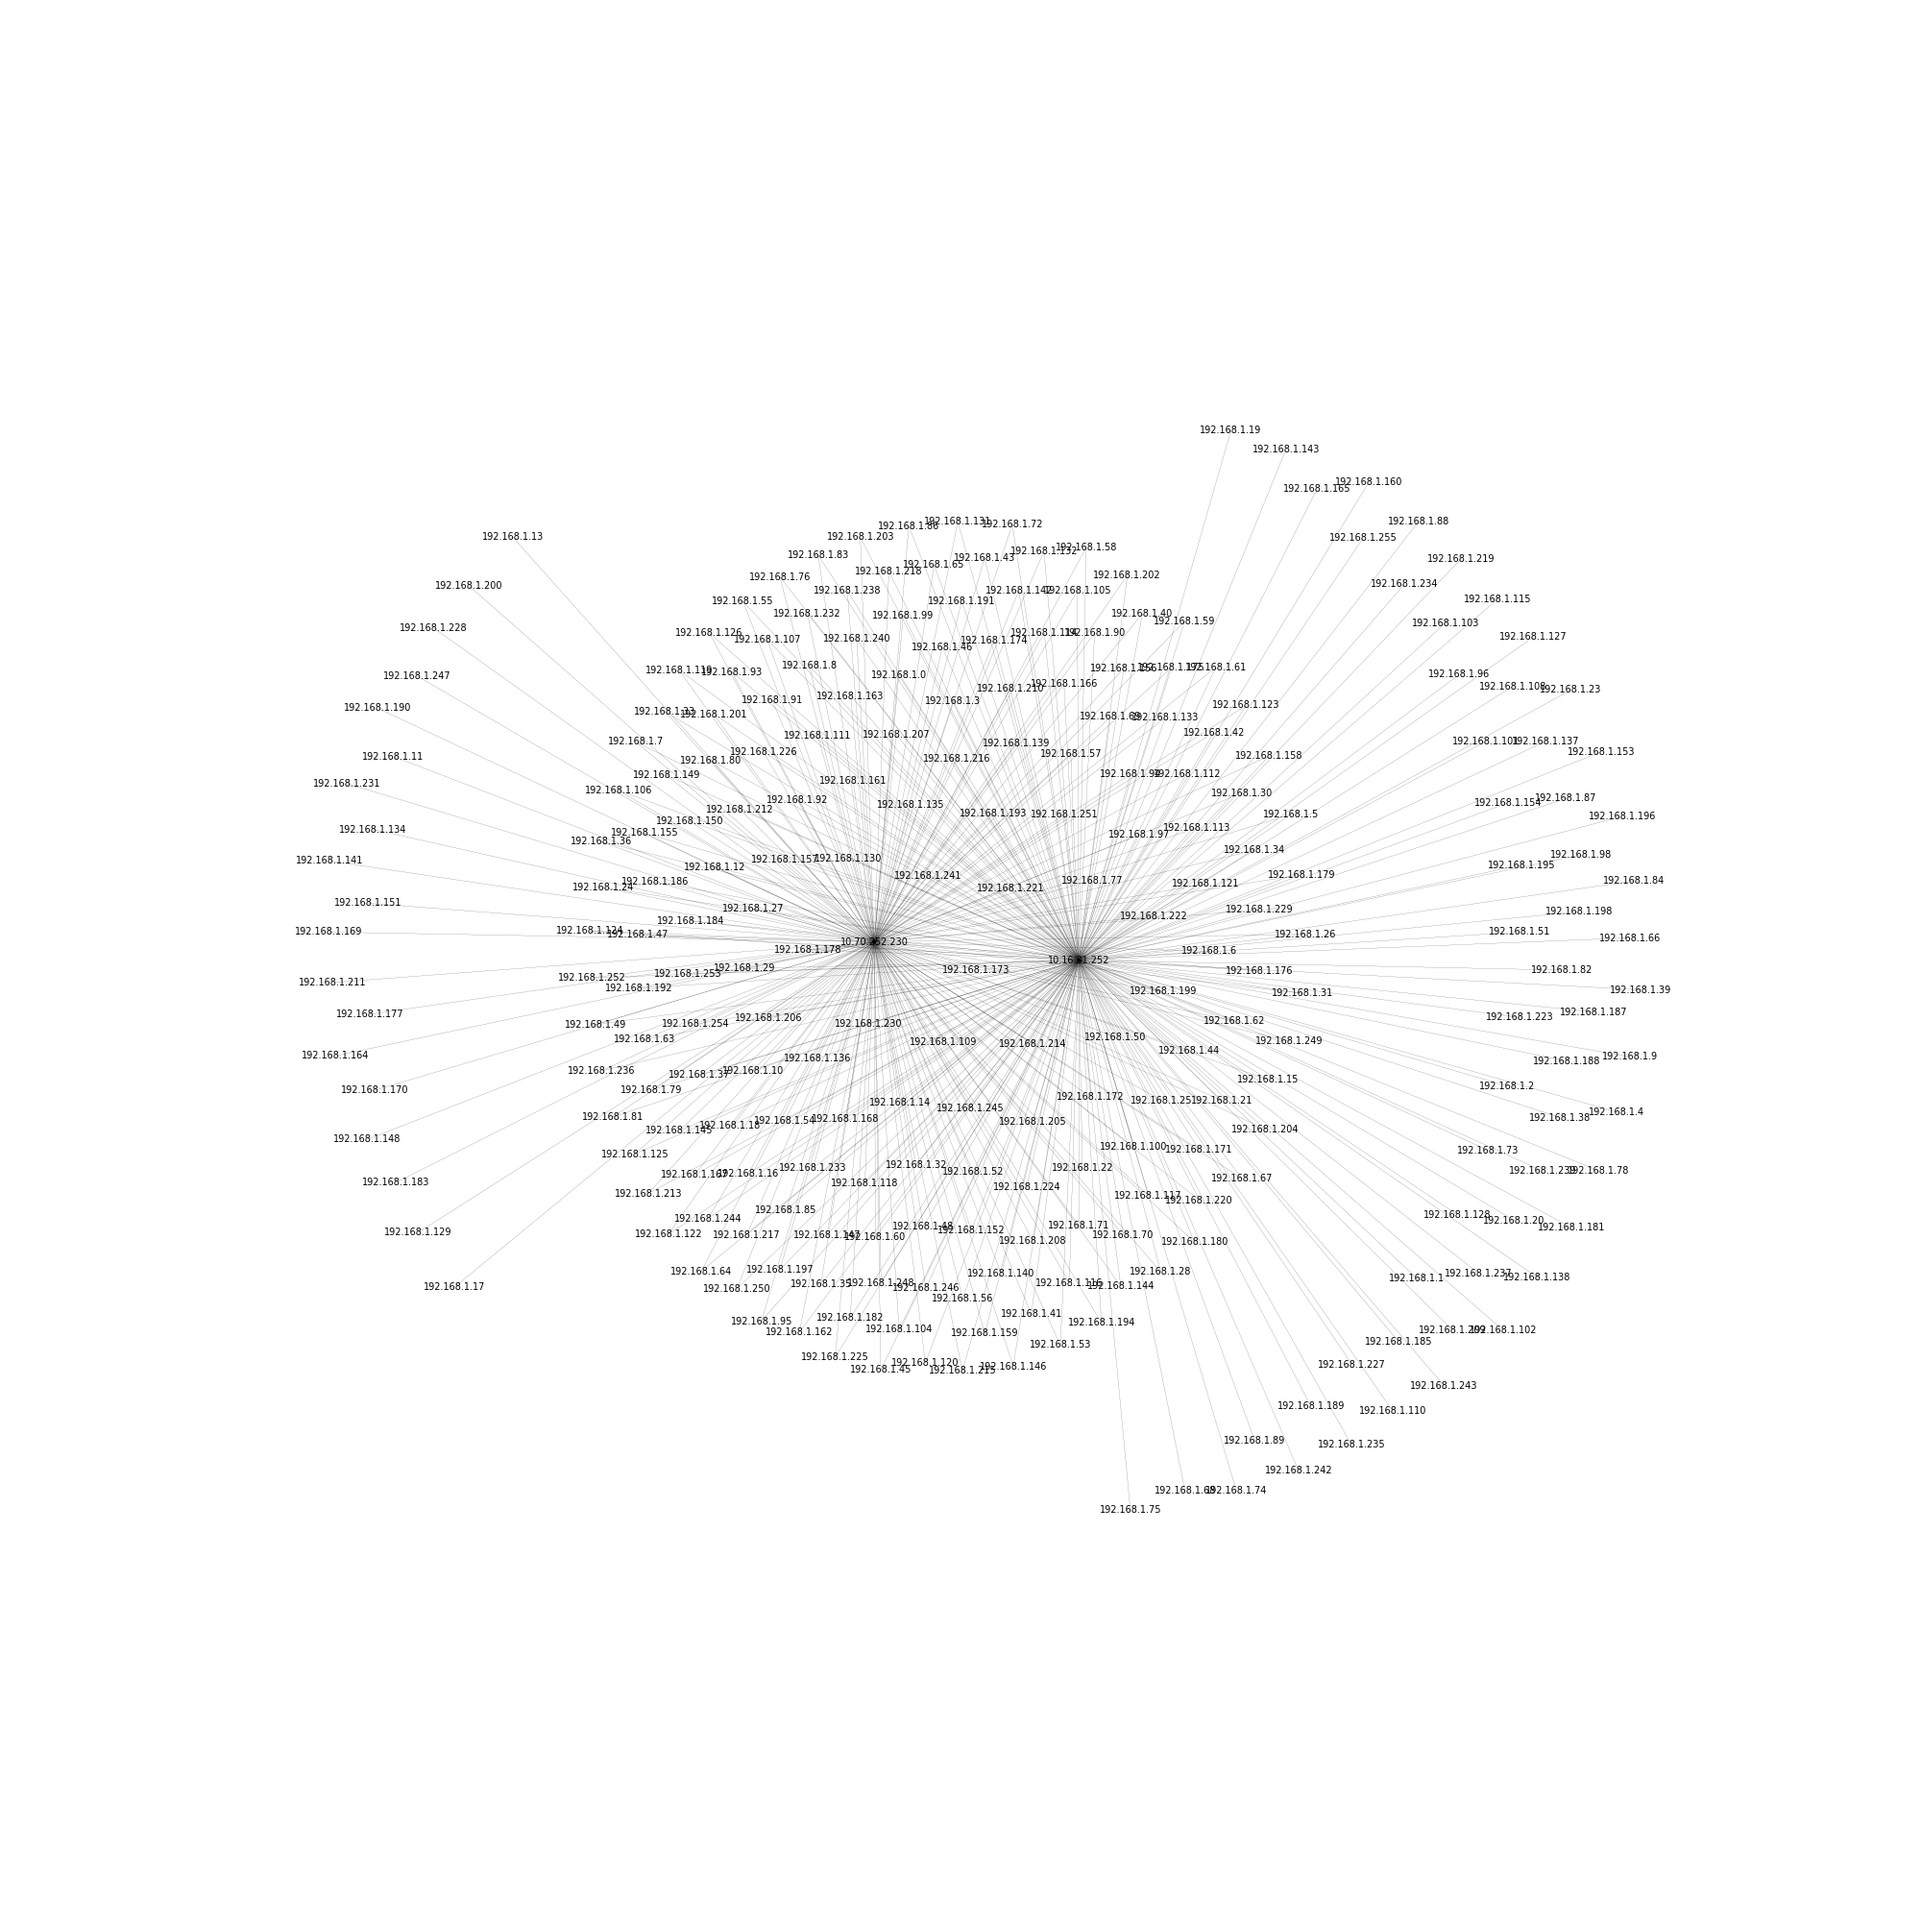
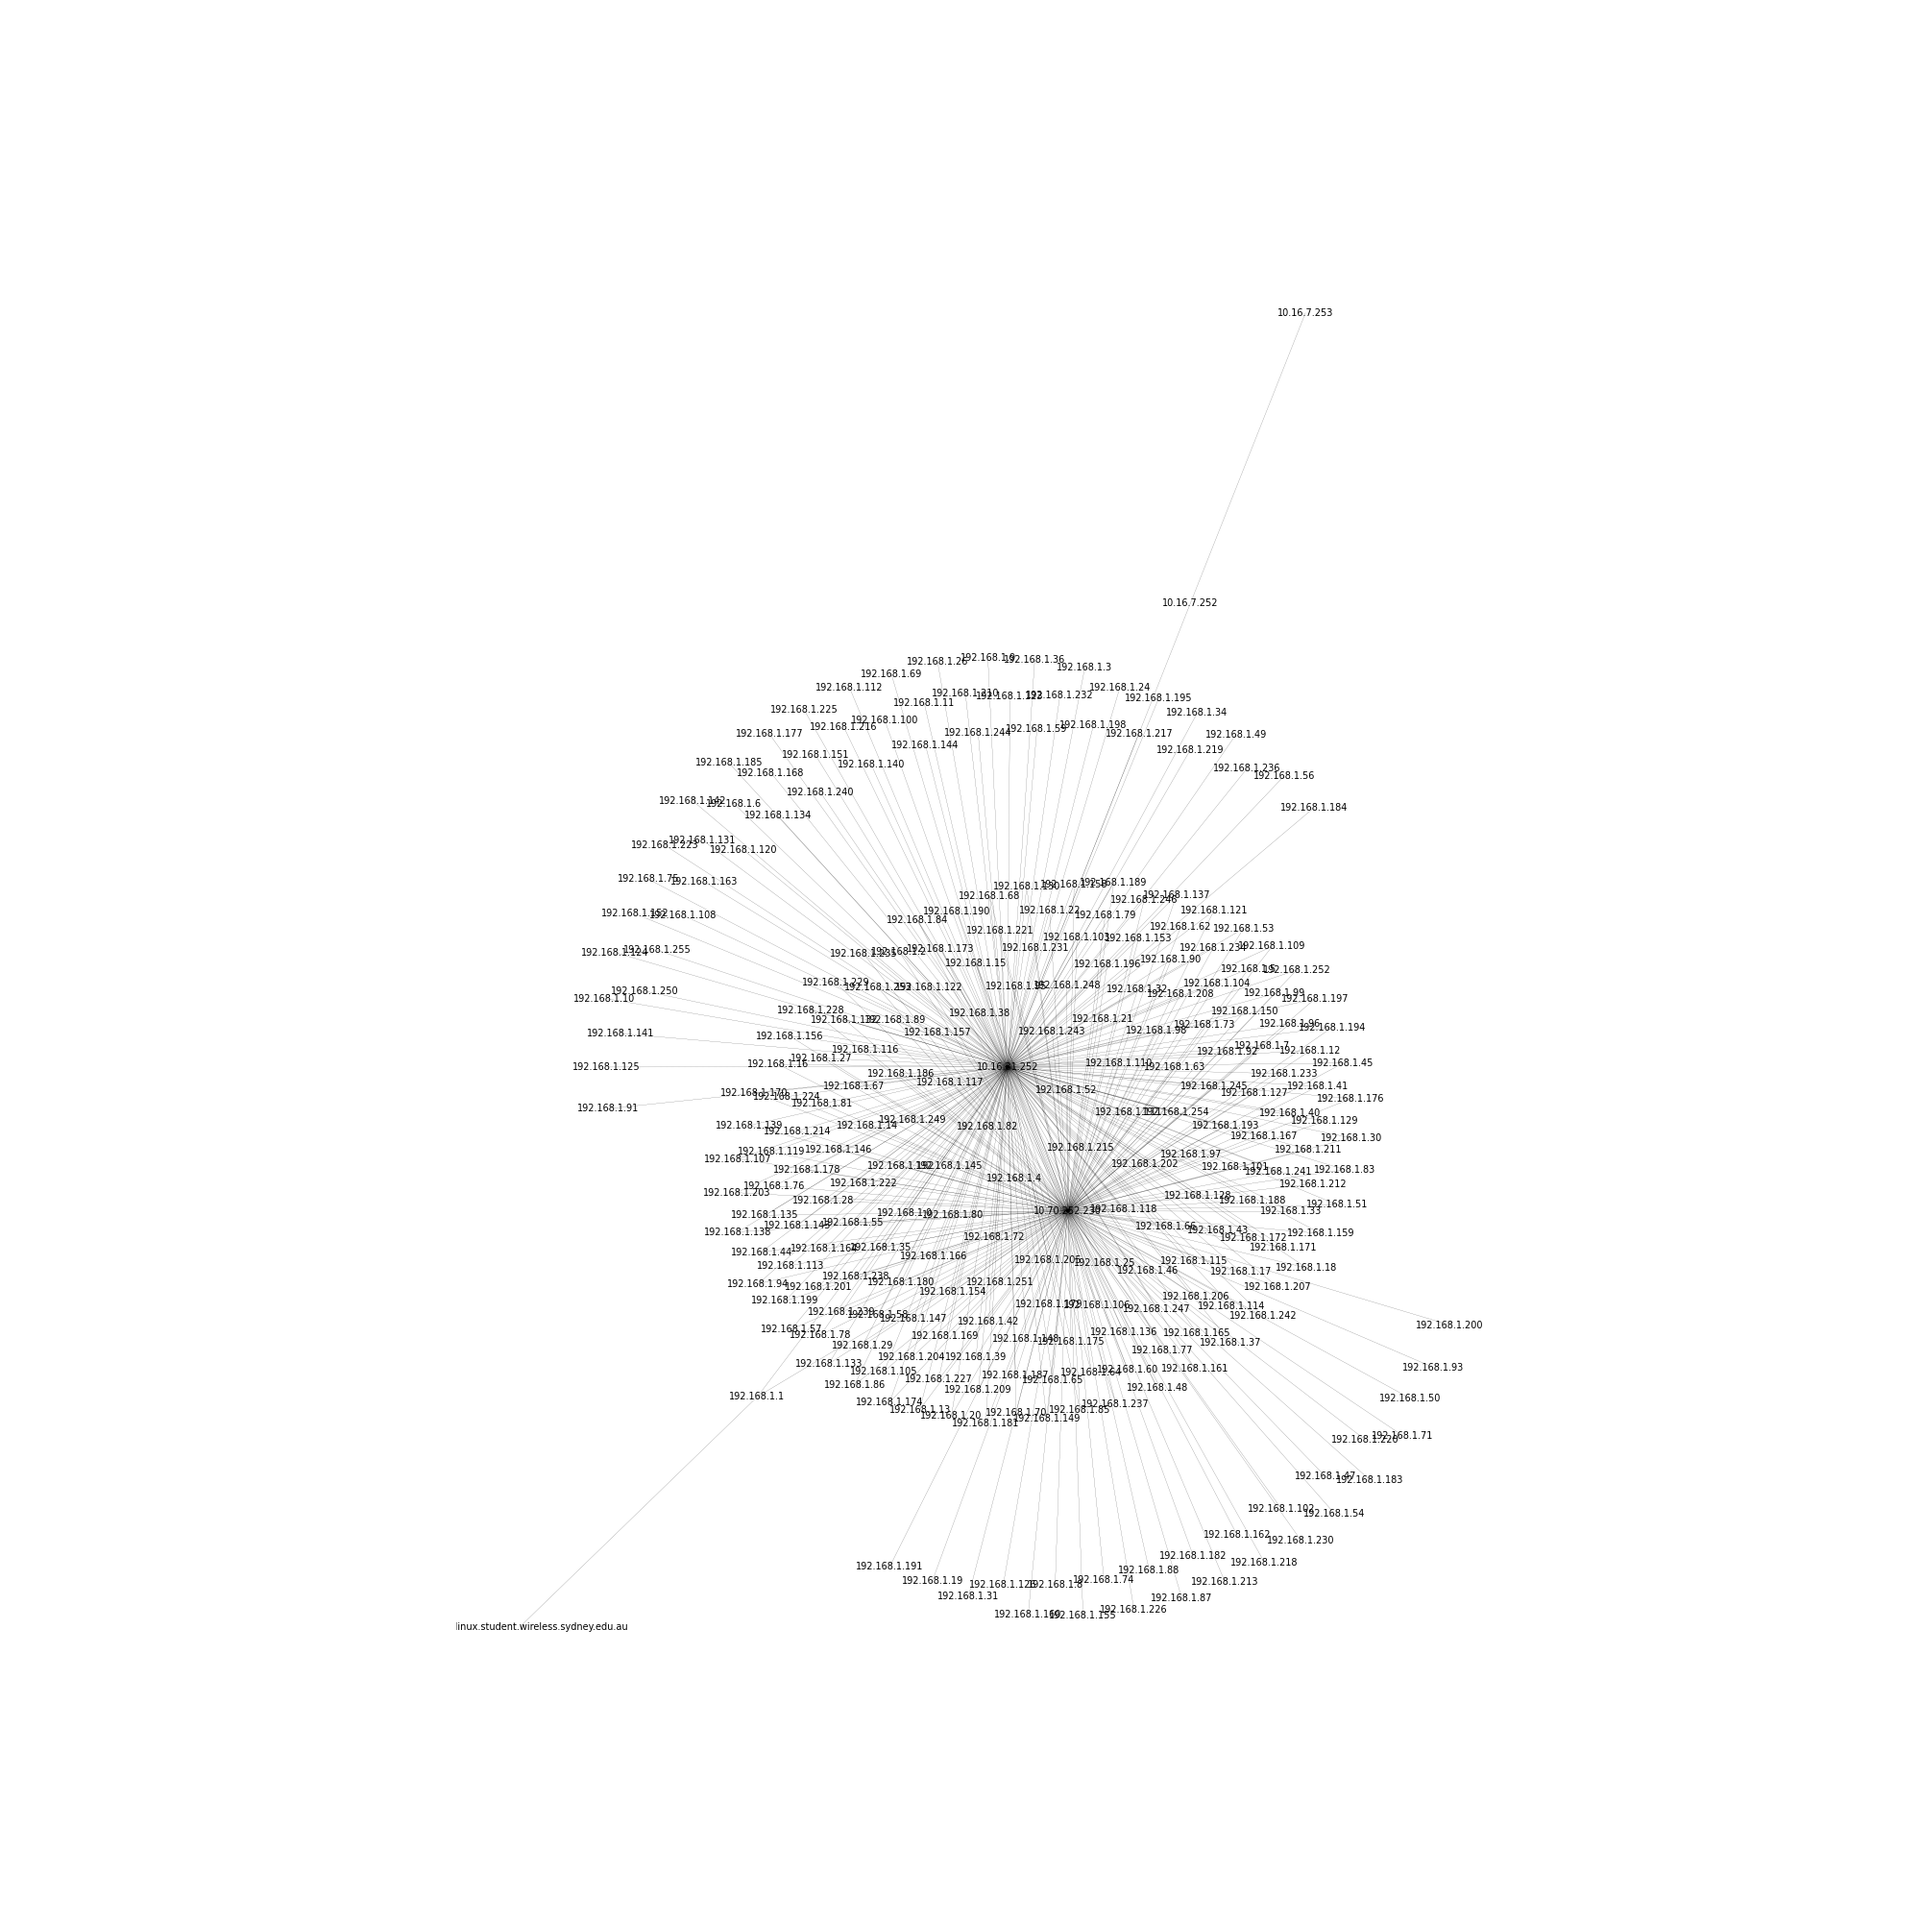
added tcp scanning method for testing

diff --git a/src/scapy_network_visualise.py b/src/scapy_network_visualise.py
@@ -3,32 +3,16 @@ import igraph as ig
 import matplotlib.pyplot as plt
 import re, socket
 
-def get_clients(ip_range):
-
-    print("Getting active devices on local network...")
+def arp_scan(ip_range, clients):
 
     # Creating arp packet
     arp_frame = scapy.ARP(pdst=ip_range)
     ethernet_frame = scapy.Ether(dst="FF:FF:FF:FF:FF:FF")
     request = ethernet_frame / arp_frame
 
-    # Adding this computer to list of clients in the map
-    own_ip = scapy.get_if_addr(scapy.conf.iface)
-    own_mac = scapy.Ether().src
-    own_name = own_ip
-    try:
-        own_name = socket.gethostbyaddr(own_ip)[0]
-    except:
-        pass
-
-    clients = {own_ip : {"mac" : own_mac, "name" : own_name, "route" : [own_ip]}}
-
     # Run arp scan to retrieve active ips
     responded = scapy.srp(request, timeout=1, retry=10, verbose=False)[0]
 
-    print("Discovered %d devices!\nResolving hostnames..." % (len(responded)))
-    # Gather and store all relevant data for current client
-    cursor = 0
     for response in responded:
 
         ip = response[1].psrc
@@ -41,9 +25,54 @@ def get_clients(ip_range):
         # except:
         #     pass
 
-        print("[%d] Name is %s" % (cursor, name))
-        cursor += 1
         clients[ip] = {"mac" : mac, "name" : name, "route" : []}
+
+
+def tcp_scan(ip_range, clients):
+
+    try:
+        syn = scapy.IP(dst=ip_range) / scapy.TCP(dport=[80, 443], flags="S")
+    except socket.gaierror:
+        raise ValueError('Hostname {} could not be resolved.'.format(ip))
+
+    responded = scapy.sr(syn, timeout=2, retry=8)[0]
+
+    print("Discovered %d devices!\nResolving hostnames..." % (len(responded)))
+    # Gather and store all relevant data for current client
+    cursor = 0
+    for response in responded:
+
+        ip = response[1][scapy.IP].src
+        mac = "na"
+
+        # resolves hostname if possible. Massive time cost here, need to find a better solution +++
+        name = ip
+        try:
+            name = socket.gethostbyaddr(ip)[0]
+        except:
+            pass
+
+        print("Resolved %s as %s" % (ip, name))
+
+        clients[ip] = {"mac" : mac, "name" : name, "route" : []}
+
+
+def get_clients(ip_range):
+
+    print("Getting active devices on local network...")
+
+    # Adding this computer to list of clients in the map
+    own_ip = scapy.get_if_addr(scapy.conf.iface)
+    own_mac = scapy.Ether().src
+    own_name = own_ip
+    try:
+        own_name = socket.gethostbyaddr(own_ip)[0]
+    except:
+        pass
+
+    clients = {own_ip : {"mac" : own_mac, "name" : own_name, "route" : [own_ip, "192.168.1.1"]}}
+    # tcp_scan("192.168.1.0/24", clients)
+    arp_scan("192.168.1.0/24", clients)
 
     return clients
 
